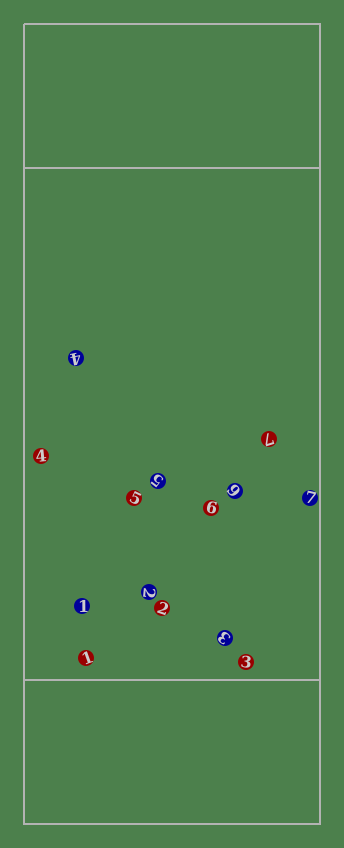
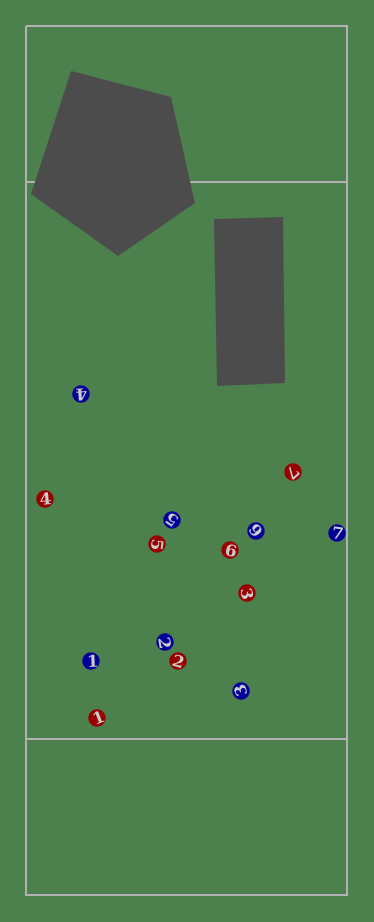
experimental area recognition

diff --git a/scan.py b/scan.py
@@ -48,7 +48,43 @@ def scan(img_path: str, show_digits=cfg.show_digits, show_circles=cfg.show_circl
     for i, img_step in enumerate([gray_sharp, binary, players_mask, annotated] if show_circles else []):
         cv_utils.display_img(img_step, wait=False, window_name=str(i), pos=i)
     team_1, team_2 = cluster_players_by_color(players)
-    return state.State(players_team_1=team_1, players_team_2=team_2)
+    areas = np.array(detect_handdrawings(gray, circles)) / cfg.resize_factor
+    return state.State(players_team_1=team_1, players_team_2=team_2, areas=areas)
+
+
+def detect_handdrawings(gray_img, player_contours, show_intermediate_results=True):
+    cv_utils.display_img(gray_img, wait=False)
+    # todo: this is an experiment and has only been testen on a single image
+    gray_img[:, -5:] = gray_img[:, -6, None]  # todo: hack to remove artifact on right border
+    edges = cv2.Canny(gray_img, 100, 200)
+    [cv2.circle(edges, (c[0], c[1]), int(c[2]*2.2), cfg.min_intensity, -1) for c in player_contours.astype(np.uint16)]
+    # remove endzone lines
+    lw = int(1.5 * cfg.resize_factor)  # 1.5m in pixels
+    for height in [cfg.endzone_height_m, cfg.field_height_m - cfg.endzone_height_m]:
+        pts = np.array([[0, height], [cfg.field_width_m, height]])
+        pts = (pts * cfg.resize_factor).astype(np.int32)
+        cv2.line(edges, *pts, cfg.min_intensity, lw)  # use other method to remove the endzone line
+    cv_utils.display_img(edges, wait=False)
+    lw = cv_utils.round_to_odd(lw * 1.3)
+    kernel = cv2.getStructuringElement(cv2.MORPH_ELLIPSE, (lw, lw))
+    iters = 3
+    edges = cv2.morphologyEx(edges, cv2.MORPH_CLOSE, kernel, None, None, iters, cv2.BORDER_CONSTANT, cfg.min_intensity)
+    cv_utils.display_img(edges, wait=False)
+    contours = cv_utils.find_contours(edges)
+    areas = []
+    for contour in contours:
+        hull = cv2.convexHull(contour)
+        poly = cv2.approxPolyDP(hull, 100, True)  # todo: how to configure the allowed error?
+        hull_area, c_area = [cv2.contourArea(c) for c in [hull, contour]]
+        if c_area > 100:
+            if hull_area / c_area < 1.2:
+                poly = [p[0] for p in poly]
+                areas.append(np.array(poly))
+
+    cv2.drawContours(gray_img, areas, -1, cfg.max_intensity, -1)
+    cv_utils.display_img(gray_img, wait=False)
+    areas = np.array(areas)
+    return areas
 
 
 def annotate_player(img, player, player_contour):

diff --git a/state.py b/state.py
@@ -23,20 +23,21 @@ class Player:
 
 
 class State:
-    def __init__(self, players_team_1, players_team_2, disc=None):
+    def __init__(self, players_team_1, players_team_2, disc=None, areas=None):
         self.players_team_1 = sorted(players_team_1)
         self.players_team_2 = sorted(players_team_2)
         self.disc = disc
+        self.areas = areas
 
     def __add__(self, other):
         red_players = [s + o for s, o in zip(self.players_team_1, other.players_team_1)]
         blue_players = [s + o for s, o in zip(self.players_team_2, other.players_team_2)]
         # todo handle disc position
-        return State(players_team_1=red_players, players_team_2=blue_players)
+        return State(players_team_1=red_players, players_team_2=blue_players, areas=self.areas)
 
     def __mul__(self, x):
         red_players = [s * x for s in self.players_team_1]
         blue_players = [s * x for s in self.players_team_2]
         # todo handle disc position
-        return State(players_team_1=red_players, players_team_2=blue_players)
+        return State(players_team_1=red_players, players_team_2=blue_players, areas=self.areas)
 

diff --git a/drawer.py b/drawer.py
@@ -20,9 +20,21 @@ def main():
 def draw_scene(state: state.State):
     init_context()
     draw_field()
+    [draw_area(area, (0.3, 0.3, 0.3)) for area in state.areas]
     [draw_player(player, (0.6, 0, 0)) for player in state.players_team_1]
     [draw_player(player, (0, 0, 0.6)) for player in state.players_team_2]
     return surface
+
+
+def draw_area(pts, color):
+    pts = m2p(pts)
+    ctx.set_line_width(0)
+    ctx.set_source_rgb(*color)
+    ctx.move_to(*pts[0])
+    for x, y in pts:
+        ctx.line_to(x, y)
+    ctx.close_path()
+    ctx.fill()
 
 
 def animate_scene(state_1, state_2, num_steps, name='animation'):

diff --git a/readme.md b/readme.md
@@ -31,6 +31,11 @@ Usage
 
 Example Images
 ---
+### locate players
 ![](examples/intermediate_steps.png)
+
+### compensate for orientation and recognize digit
 ![](examples/intermediate_steps_digit_recognition.png)
-![](media_out/temp.png)
+
+### detect hand-drawn areas
+![](examples/intermediate_steps_areas.png)
